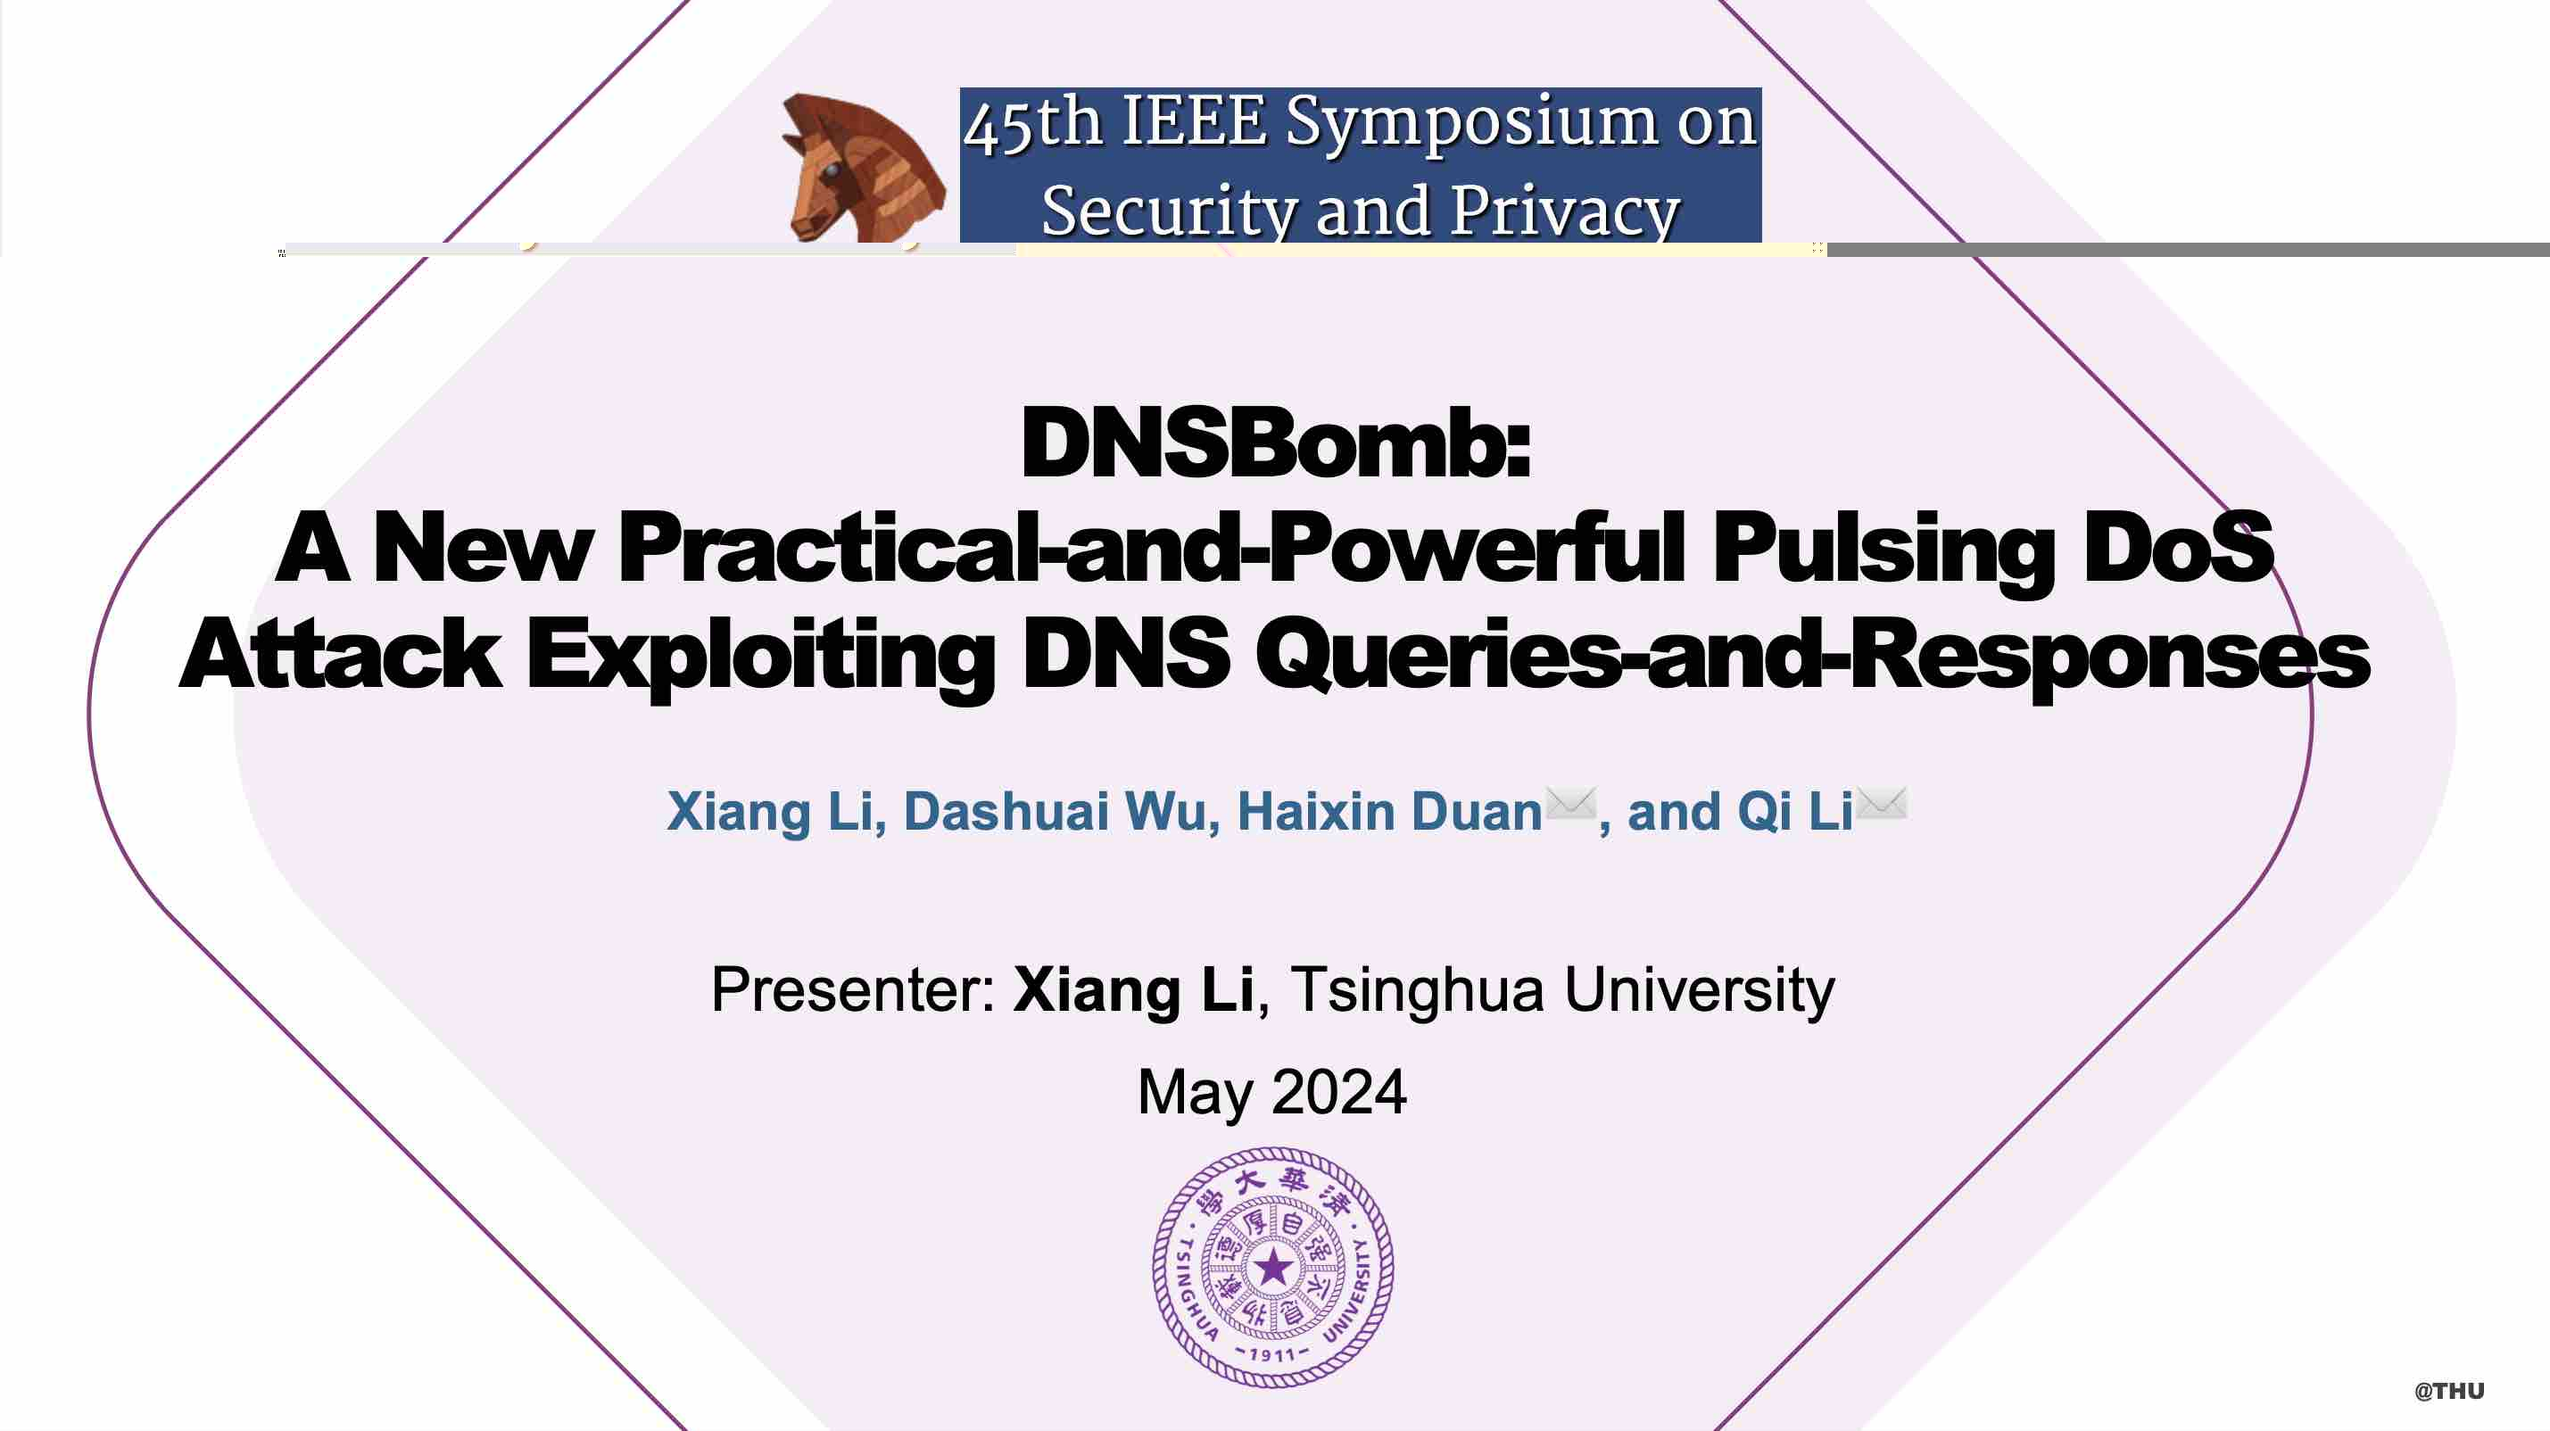
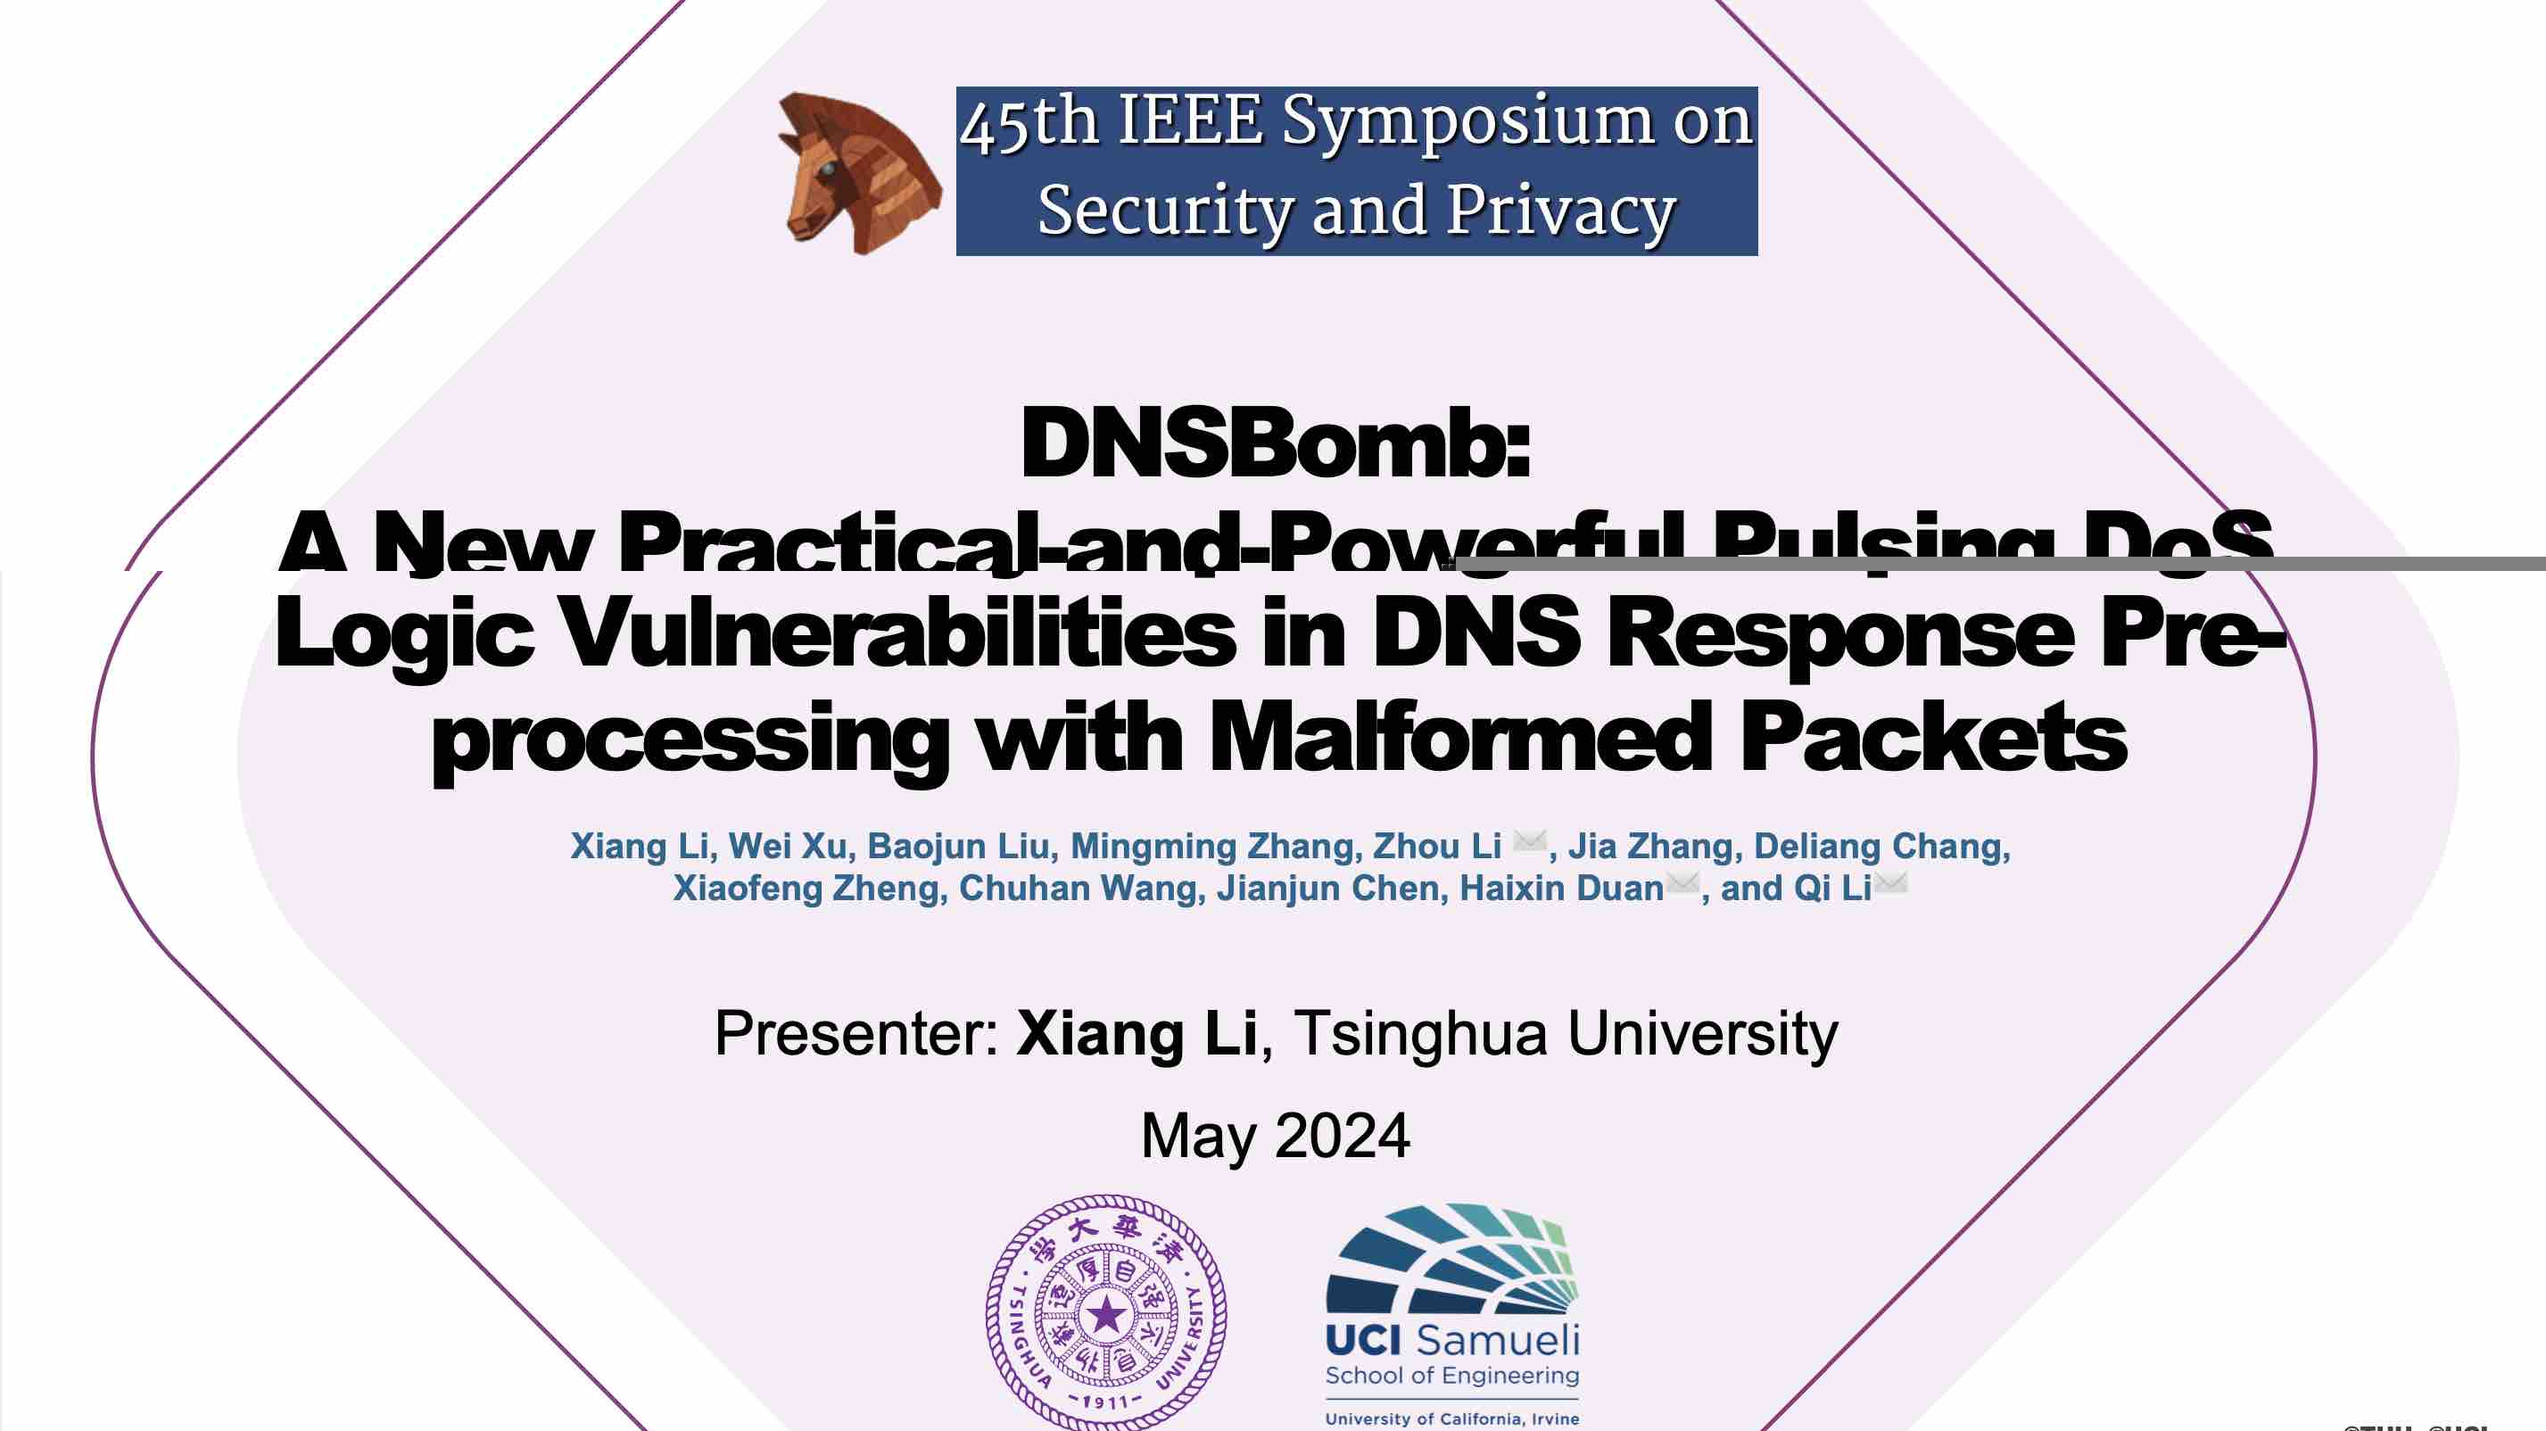
update misc

diff --git a/zh/talk/45th-ieee-symposium-on-security-and-privacy-2024-ieee-sp-2024/index.html b/zh/talk/45th-ieee-symposium-on-security-and-privacy-2024-ieee-sp-2024/index.html
@@ -272,7 +272,7 @@
 
   
 
-<meta name="description" content="在[45th IEEE Symposium on Security and Privacy 2024](https://sp2024.ieee-security.org/index.html)会议上，丰露代替我汇报了DNSBomb攻击。十分感谢！" />
+<meta name="description" content="在[45th IEEE Symposium on Security and Privacy 2024](https://sp2024.ieee-security.org/index.html)会议上，丰露代替我汇报了TuDoor攻击。十分感谢！" />
 
 
 
@@ -316,7 +316,7 @@
 <meta property="og:site_name" content="李想 | Xiang Li" />
 <meta property="og:url" content="https://lixiang521.com/zh/talk/45th-ieee-symposium-on-security-and-privacy-2024-ieee-sp-2024/" />
 <meta property="og:title" content="45th IEEE Symposium on Security and Privacy 2024 | IEEE S&amp;P 2024 | 李想 | Xiang Li" />
-<meta property="og:description" content="在[45th IEEE Symposium on Security and Privacy 2024](https://sp2024.ieee-security.org/index.html)会议上，丰露代替我汇报了DNSBomb攻击。十分感谢！" /><meta property="og:image" content="https://lixiang521.com/zh/talk/45th-ieee-symposium-on-security-and-privacy-2024-ieee-sp-2024/featured.jpg" /><meta property="og:locale" content="zh-Hans" />
+<meta property="og:description" content="在[45th IEEE Symposium on Security and Privacy 2024](https://sp2024.ieee-security.org/index.html)会议上，丰露代替我汇报了TuDoor攻击。十分感谢！" /><meta property="og:image" content="https://lixiang521.com/zh/talk/45th-ieee-symposium-on-security-and-privacy-2024-ieee-sp-2024/featured.jpg" /><meta property="og:locale" content="zh-Hans" />
 
   
     <meta
@@ -379,7 +379,7 @@
     "name": "Fenglu Zhang"
   },
   
-  "description": "在[45th IEEE Symposium on Security and Privacy 2024](https://sp2024.ieee-security.org/index.html)会议上，丰露代替我汇报了DNSBomb攻击。十分感谢！"
+  "description": "在[45th IEEE Symposium on Security and Privacy 2024](https://sp2024.ieee-security.org/index.html)会议上，丰露代替我汇报了TuDoor攻击。十分感谢！"
 }
 </script>
 
@@ -419,7 +419,7 @@
 </head>
 
 
-<body id="top" data-spy="scroll" data-offset="70" data-target="#TableOfContents" class="page-wrapper   " data-wc-page-id="06ce02b55c8dddf7d39f9a7a09b5051d" >
+<body id="top" data-spy="scroll" data-offset="70" data-target="#TableOfContents" class="page-wrapper   " data-wc-page-id="e05079f5c464b403ce018a56a32de18e" >
 
   
   
@@ -1019,7 +1019,7 @@
 
 
 
-<a class="btn btn-outline-primary btn-page-header" href="/publication/oakland24/sp24spring-dnsbomb-li.pdf" target="_blank" rel="noopener">
+<a class="btn btn-outline-primary btn-page-header" href="/publication/oakland24/sp24spring-tudoor-li.pdf" target="_blank" rel="noopener">
   PDF
 </a>
 
@@ -1035,7 +1035,7 @@
   
     
   
-<a class="btn btn-outline-primary btn-page-header" href="/publication/oakland24/sp2024-dnsbomb-poster.pdf" target="_blank" rel="noopener">
+<a class="btn btn-outline-primary btn-page-header" href="/publication/oakland24/sp2024-tudoor-poster.pdf" target="_blank" rel="noopener">
   海报
 </a>
 
@@ -1045,7 +1045,7 @@
   
     
   
-<a class="btn btn-outline-primary btn-page-header" href="/publication/oakland24/sp2024-dnsbomb-slides.pdf" target="_blank" rel="noopener">
+<a class="btn btn-outline-primary btn-page-header" href="/publication/oakland24/sp2024-tudoor-slides.pdf" target="_blank" rel="noopener">
   演示文稿
 </a>
 
@@ -1075,9 +1075,9 @@
 </div>
 
 
-<div class="article-header article-container featured-image-wrapper mt-4 mb-4" style="max-width: 720px; max-height: 405px;">
+<div class="article-header article-container featured-image-wrapper mt-4 mb-4" style="max-width: 720px; max-height: 404px;">
   <div style="position: relative">
-    <img src="/zh/talk/45th-ieee-symposium-on-security-and-privacy-2024-ieee-sp-2024/featured_huc82d7b839fc53b7a5c86bd3cdfedcac6_161243_720x2500_fit_q75_h2_lanczos.webp" width="720" height="405" alt="" class="featured-image">
+    <img src="/zh/talk/45th-ieee-symposium-on-security-and-privacy-2024-ieee-sp-2024/featured_huc82d7b839fc53b7a5c86bd3cdfedcac6_184831_720x2500_fit_q75_h2_lanczos.webp" width="720" height="404" alt="" class="featured-image">
     
   </div>
 </div>
@@ -1088,7 +1088,7 @@
 
     
       <h3>摘要</h3>
-      <p class="pub-abstract">DNS employs a variety of mechanisms to guarantee availability, protect security, and enhance reliability. In this paper, however, we reveal that these inherent beneficial mechanisms, including timeout, query aggregation, and response fast-returning, can be transformed into malicious attack vectors. We propose a new practical and powerful pulsing DoS attack, dubbed the DNSBomb attack. DNSBomb exploits multiple widely-implemented DNS mechanisms to accumulate DNS queries that are sent at a low rate, amplify queries into large-sized responses, and concentrate all DNS responses into a short, high-volume periodic pulsing burst to simultaneously overwhelm target systems. Through an extensive evaluation on 10 mainstream DNS software, 46 public DNS services, and around 1.8M open DNS resolvers, we demonstrate all DNS resolvers could be exploited to conduct more practical-and-powerful DNSBomb attacks than previous pulsing DoS atttacks. Small-scale experiments show the peak pulse magnitude can approach 8.7Gb/s and the bandwidth amplification factor could exceed 20,000x. Our controlled attacks cause complete packet loss or service degradation on both stateless and stateful connections (TCP, UDP, and QUIC). In addition, we present effective mitigation solutions with detailed evaluations. We have responsibly reported our findings to all affected vendors, and received acknowledgement from 24 of them, which are patching their software using our solutions, such as BIND, Unbound, PowerDNS, and Knot. 10 CVE-IDs are assigned.</p>
+      <p class="pub-abstract">DNS can be compared to a game of chess in that its rules are simple, yet the possibilities it presents are endless. While the fundamental rules of DNS are straightforward, DNS implementations can be extremely complex. In this study, we intend to explore the complexities and vulnerabilities in DNS response pre-processing by systematically analyzing DNS RFCs and DNS software implementations. We present the discovery of three new types of logic vulnerabilities, leading to the proposal of three novel attacks, namely the TuDoor attack. These attacks involve the use of malformed DNS response packets to carry out DNS cache poisoning, denial-of-service, and resource consuming attacks. By performing comprehensive experiments, we demonstrate the attack&rsquo;s feasibility and significant real-world impacts of TuDoor. In total, 24 mainstream DNS software, including BIND, PowerDNS, and Microsoft DNS, are affected by TuDoor. Attackers can instigate cache poisoning and denial-of-service attacks against vulnerable resolvers using a handful of crafted packets within 1 second or circumvent the query limit to deplete resolution resources (e.g., CPU). Besides, to determine the vulnerable resolver population in the wild, we collect and evaluate 16 popular Wi-Fi routers, 6 prevalent router OSes, 42 public DNS services, and around 1.8M open DNS resolvers. Our measurement results indicate that TuDoor could exploit 7 routers (OSes), 18 public DNS services, and 424,652 (23.1%) open DNS resolvers. Following the best practice of responsible disclosure, we have reported these vulnerabilities to all affected vendors, and 18 of them, including BIND, Chrome, Cloudflare, and Microsoft, have acknowledged our findings and discussed mitigation solutions with us. Furthermore, 33 CVE IDs are assigned to our discovered vulnerabilities, and we provide an online detection tool as one of the mitigation measures. Our research highlights the urgent need for standardization of DNS response pre-processing logic to enhance the security of DNS.</p>
     
 
     <div class="row">
@@ -1144,7 +1144,7 @@
     <div class="space-below"></div>
 
     <div class="article-style">
-      <p>在<a href="https://sp2024.ieee-security.org/index.html" target="_blank" rel="noopener">45th IEEE Symposium on Security and Privacy 2024</a>会议上，丰露代替我汇报了DNSBomb攻击。十分感谢！</p>
+      <p>在<a href="https://sp2024.ieee-security.org/index.html" target="_blank" rel="noopener">45th IEEE Symposium on Security and Privacy 2024</a>会议上，丰露代替我汇报了TuDoor攻击。十分感谢！</p>
 <h3 id="现场反馈">现场反馈</h3>
 <p>impressive! unbelievable! amazing!</p>
 

diff --git a/index.html b/index.html
@@ -1537,10 +1537,10 @@
   <h3 id="-publications">📑 Publications</h3>
 <ul>
 <li>
-<p><strong>Publications in total</strong>: 30</p>
+<p><strong>Publications in total</strong>: 31</p>
 </li>
 <li>
-<p><strong>Publications at top-tier security venues (17)</strong>: S&amp;P (&lsquo;24a, &lsquo;24b, &lsquo;25, &lsquo;26), NDSS (&lsquo;23, &lsquo;24a, &lsquo;24b, &lsquo;24c, &lsquo;25), USENIX Security (&lsquo;23a, &lsquo;23b, &lsquo;24a, &lsquo;24b), CCS (&lsquo;23a, &lsquo;23b, &lsquo;25a, &lsquo;25b)</p>
+<p><strong>Publications at top-tier security venues (17)</strong>: S&amp;P (&lsquo;24a, &lsquo;24b, &lsquo;25, &lsquo;26), NDSS (&lsquo;23, &lsquo;24a, &lsquo;24b, &lsquo;24c, &lsquo;26), USENIX Security (&lsquo;23a, &lsquo;23b, &lsquo;24a, &lsquo;24b), CCS (&lsquo;23a, &lsquo;23b, &lsquo;25a, &lsquo;25b)</p>
 </li>
 <li>
 <p><strong>Publications at other computer science venues/journals (13)</strong>: DSN (&lsquo;21), VehicleSec (&lsquo;23), SIGMETRICS (&lsquo;23), IMC (&lsquo;23, &lsquo;25), IMC Poster (&lsquo;25a, &lsquo;25b), NDSS Poster (&lsquo;24), ACNS (&lsquo;25), SecureComm (&lsquo;25), ECAI (&lsquo;25), TrustCom (&lsquo;25), TOSEM (&lsquo;25)</p>
@@ -2366,7 +2366,8 @@
   <div class="col-12 col-lg-8">
     <h3 id="-awards">🏅 Awards</h3>
 <ul>
-<li>The 2nd Place of ACSAC Cybersecurity Artifacts Impact Award (First Chinese institution to receive this award). 2025</li>
+<li>Education System IPv6 Large-Scale Deployment and Application Case Studies. 2025.</li>
+<li><a href="https://www.acsac.org/2025/program/artifacts_competition/" target="_blank" rel="noopener">The 2nd Place of ACSAC Cybersecurity Artifacts Impact Award</a> (<strong>First Chinese institution to receive this award</strong>). 2025</li>
 <li>The 1st Place (2nd Prize) of GeekCon DAF Contest. 2025</li>
 <li>National Typical Examples of IPv6 Address Applications. 2025</li>
 <li>ACM SIG CHINA Wonderful Keynote Talk. 2025</li>

diff --git a/zh/index.html b/zh/index.html
@@ -1536,7 +1536,7 @@
   <h3 id="-论文发表">📑 论文发表</h3>
 <ul>
 <li>
-<p><strong>总数</strong>: 30</p>
+<p><strong>总数</strong>: 31</p>
 </li>
 <li>
 <p><strong>发表于安全顶会（17）</strong>: S&amp;P (&lsquo;24a、&lsquo;24b、&lsquo;25、&lsquo;26)、NDSS (&lsquo;23、&lsquo;24a、&lsquo;24b、&lsquo;24c、&lsquo;26)、USENIX Security (&lsquo;23a、&lsquo;23b、&lsquo;24a、&lsquo;24b)、CCS (&lsquo;23a、&lsquo;23b、&lsquo;25a、&lsquo;25b)</p>
@@ -2366,7 +2366,7 @@
     <h3 id="-荣誉奖励">🏅 荣誉奖励</h3>
 <ul>
 <li>2025年，中国教育系统IPv6规模部署和应用案例集</li>
-<li>2025年，ACSAC网络安全技术成果影响力奖（第二名、中国研究机构首次获得）</li>
+<li>2025年，<a href="https://www.acsac.org/2025/program/artifacts_competition/" target="_blank" rel="noopener">ACSAC网络安全技术成果影响力奖</a>（第二名、<strong>中国研究机构首次获得</strong>）</li>
 <li>2025年，GeekCon国际安全极客大赛DAF漏洞利用挑战赛第一名（二等奖）</li>
 <li>2025年，中国互联网络信息中心征集IPv6典型案例</li>
 <li>2025年，ACM SIG CHINA精彩特邀报告</li>

diff --git a/talk/45th-ieee-symposium-on-security-and-privacy-2024-ieee-sp-2024/index.html b/talk/45th-ieee-symposium-on-security-and-privacy-2024-ieee-sp-2024/index.html
@@ -1549,3 +1549,37 @@
 
 </body>
 </html>
+="btn btn-outline-primary my-1 js-copy-cite" href="#" target="_blank">
+          <i class="fas fa-copy"></i> Copy
+        </a>
+        <a class="btn btn-outline-primary my-1 js-download-cite" href="#" target="_blank">
+          <i class="fas fa-download"></i> Download
+        </a>
+        <div id="modal-error"></div>
+      </div>
+    </div>
+  </div>
+</div>
+
+
+  <script src="/js/wowchemy-publication.68f8d7090562ca65fc6d3cb3f8f2d2cb.js" type="module"></script>
+
+
+
+
+
+
+
+
+
+
+
+
+
+
+
+
+
+
+</body>
+</html>
